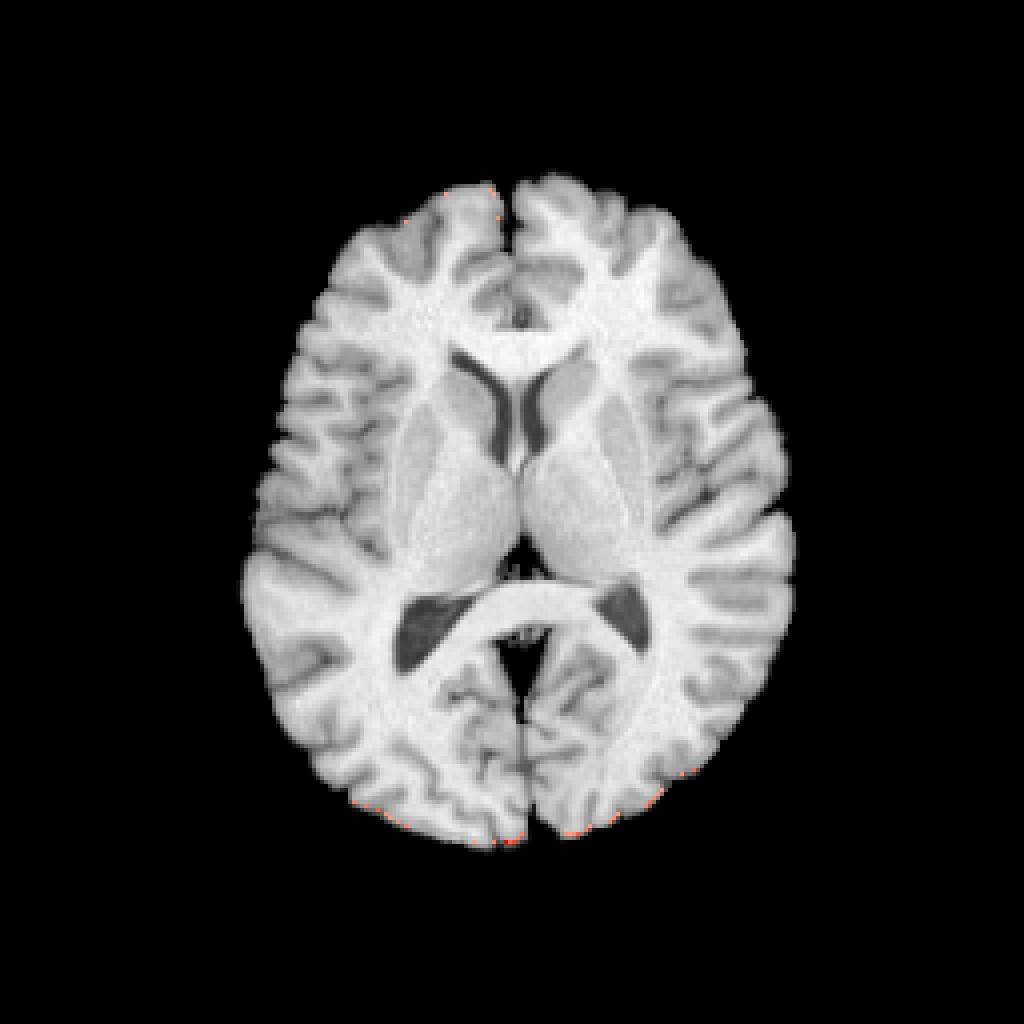
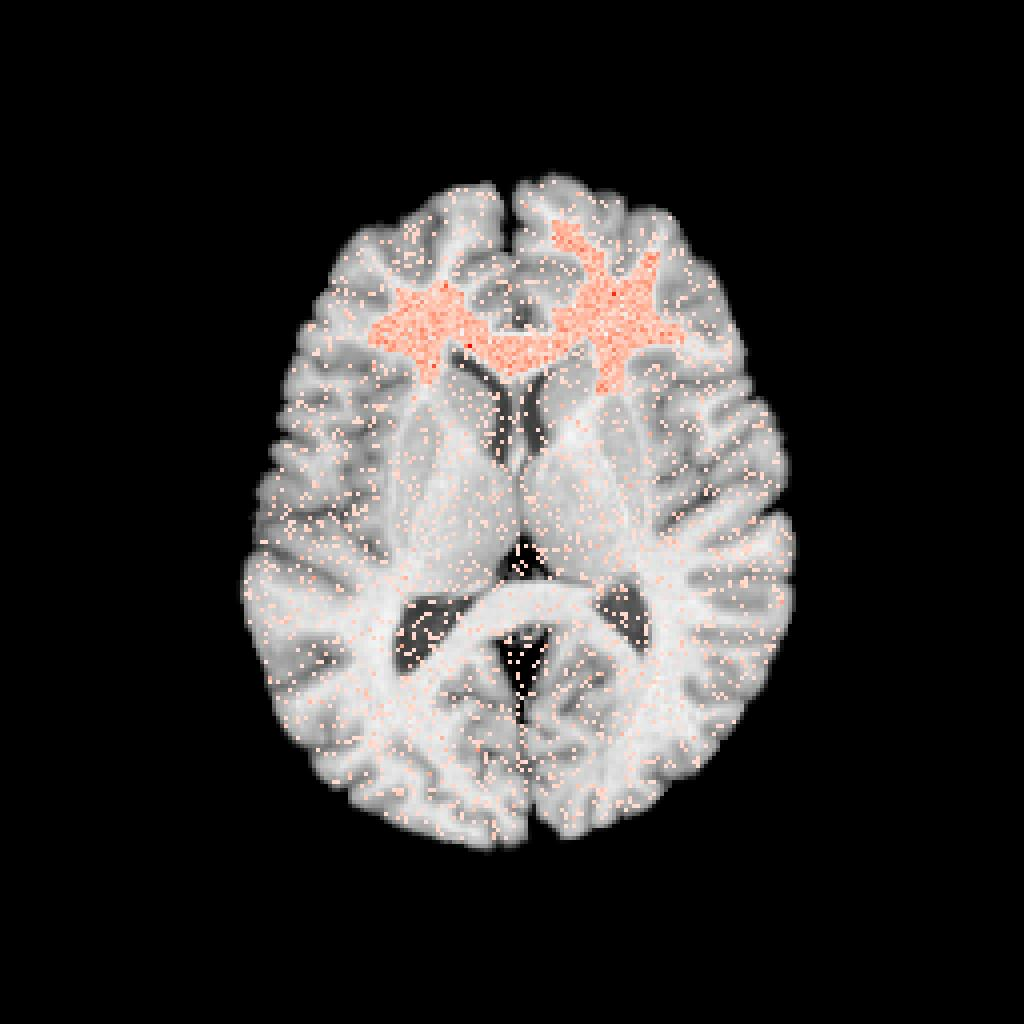
COMP: figs

diff --git a/index.html b/index.html
@@ -343,12 +343,10 @@ imglist&lt;-<span class="kw">list</span>()
 imglist2&lt;-<span class="kw">list</span>()
 for ( i in <span class="dv">1</span>:simnum ) {
   img1sim&lt;-<span class="kw">antsImageClone</span>(img)
-  img1sim[ mask==<span class="dv">1</span> ]&lt;-<span class="kw">rnorm</span>(nvox,<span class="dt">mean=</span><span class="fl">0.20</span>)
-  img1sim[ mask2==<span class="dv">1</span> ]&lt;-<span class="kw">rnorm</span>(nvox2,<span class="dt">mean=</span><span class="fl">0.21</span>)
-  <span class="kw">SmoothImage</span>(dim,img1sim,<span class="fl">1.5</span>,img1sim)
+  img1sim[ mask==<span class="dv">1</span> ]&lt;-<span class="kw">rnorm</span>(nvox,<span class="dt">mean=</span><span class="fl">0.5</span>)
+  img1sim[ mask2==<span class="dv">1</span> ]&lt;-<span class="kw">rnorm</span>(nvox2,<span class="dt">mean=</span><span class="fl">2.0</span>)
   img2sim&lt;-<span class="kw">antsImageClone</span>(img2)
   img2sim[ mask==<span class="dv">1</span> ]&lt;-<span class="kw">rnorm</span>(nvox,<span class="dt">mean=</span><span class="fl">0.20</span>)
-  <span class="kw">SmoothImage</span>(dim,img2sim,<span class="fl">1.5</span>,img2sim)
   imglist&lt;-<span class="kw">lappend</span>(imglist,img1sim)
   imglist2&lt;-<span class="kw">lappend</span>(imglist2,img2sim)
 }
@@ -357,10 +355,10 @@ mat&lt;-<span class="kw">imageListToMatrix</span>( imglist, mask )
 DX&lt;-<span class="kw">factor</span>( <span class="kw">c</span>( <span class="kw">rep</span>(<span class="dv">0</span>,simnum), <span class="kw">rep</span>(<span class="dv">1</span>,simnum) ) )
 mylmresults&lt;-<span class="kw">bigLMStats</span>( <span class="kw">lm</span>( mat ~<span class="st"> </span>DX ) )
 qvals&lt;-<span class="kw">p.adjust</span>( mylmresults$pval.model ) </code></pre>
-<p>The minimum q-value is 1.0069 × 10<sup>-43</sup> …</p>
+<p>The minimum q-value is 1.1011 × 10<sup>-5</sup> …</p>
 </section><section id="visualize-the-histograms-of-effects" class="slide level2">
 <h1>Visualize the histograms of effects</h1>
-<pre class="sourceCode r"><code class="sourceCode r">whichvox&lt;-qvals &lt;<span class="st"> </span><span class="fl">1.e-8</span>
+<pre class="sourceCode r"><code class="sourceCode r">whichvox&lt;-qvals &lt;<span class="st"> </span><span class="fl">1.e-3</span>
 voxdf&lt;-<span class="kw">data.frame</span>( <span class="dt">volume=</span><span class="kw">c</span>( <span class="kw">as.numeric</span>( mat[,whichvox] ) ), <span class="dt">DX=</span>DX )
 <span class="kw">ggplot</span>(voxdf, <span class="kw">aes</span>(volume, <span class="dt">fill =</span> DX)) +<span class="st"> </span><span class="kw">geom_density</span>(<span class="dt">alpha =</span> <span class="fl">0.2</span>)</code></pre>
 <p><img src="FigsAntsRegistration/vizmorph.png" title="plot of chunk vizmorph" alt="plot of chunk vizmorph" width="864" /></p>
